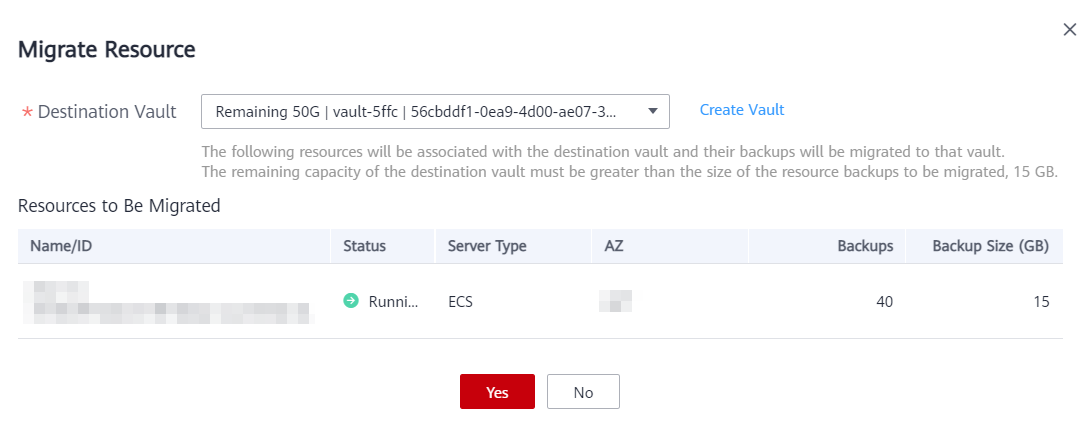
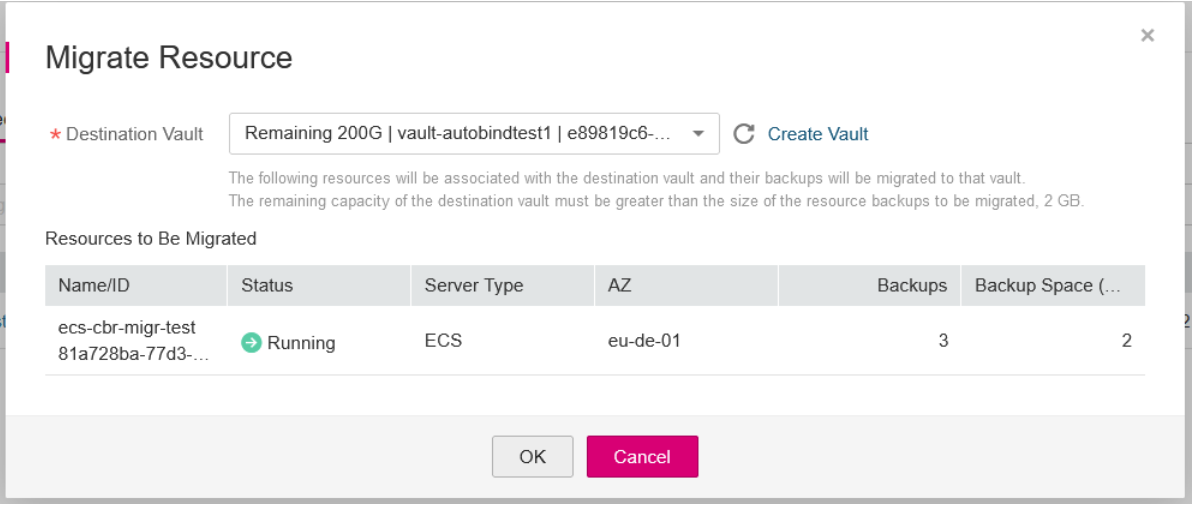
Update content

diff --git a/umn/source/vault_management/querying_a_vault.rst b/umn/source/vault_management/querying_a_vault.rst
@@ -67,27 +67,27 @@ Viewing Vault Details
 
       .. table:: **Table 2** Vault statuses
 
-         +-----------------------+-----------------------+---------------------------------------------------------------------------------------------------------------------------------------------------------------------------------------------------------------------------------------------------------------------------------------------------------------------------------------------+
-         | Status                | Attribute             | Description                                                                                                                                                                                                                                                                                                                                 |
-         +=======================+=======================+=============================================================================================================================================================================================================================================================================================================================================+
-         | All statuses          | --                    | All vaults are displayed if this value is selected.                                                                                                                                                                                                                                                                                         |
-         +-----------------------+-----------------------+---------------------------------------------------------------------------------------------------------------------------------------------------------------------------------------------------------------------------------------------------------------------------------------------------------------------------------------------+
-         | Available             | A stable state        | A stable state after a vault task is complete.                                                                                                                                                                                                                                                                                              |
-         |                       |                       |                                                                                                                                                                                                                                                                                                                                             |
-         |                       |                       | This state allows most of the operations.                                                                                                                                                                                                                                                                                                   |
-         +-----------------------+-----------------------+---------------------------------------------------------------------------------------------------------------------------------------------------------------------------------------------------------------------------------------------------------------------------------------------------------------------------------------------+
-         | Locked                | An intermediate state | An intermediate state displayed when a capacity expansion is in progress.                                                                                                                                                                                                                                                                   |
-         |                       |                       |                                                                                                                                                                                                                                                                                                                                             |
-         |                       |                       | If a vault is in this state, you can perform operations, such as applying a policy and associating servers or disks. However, the following operations are not allowed on such a vault: expanding the vault capacity and changing the vault specifications. Once those operations are complete, the vault status will become **Available**. |
-         +-----------------------+-----------------------+---------------------------------------------------------------------------------------------------------------------------------------------------------------------------------------------------------------------------------------------------------------------------------------------------------------------------------------------+
-         | Deleting              | An intermediate state | An intermediate state displayed when a vault is being deleted.                                                                                                                                                                                                                                                                              |
-         |                       |                       |                                                                                                                                                                                                                                                                                                                                             |
-         |                       |                       | In this state, a progress bar is displayed indicating the deletion progress. If the progress bar remains unchanged for an extended time, an exception has occurred. Contact technical support.                                                                                                                                              |
-         +-----------------------+-----------------------+---------------------------------------------------------------------------------------------------------------------------------------------------------------------------------------------------------------------------------------------------------------------------------------------------------------------------------------------+
-         | Error                 | A stable state        | A vault enters the **Error** state when an exception occurs during task execution.                                                                                                                                                                                                                                                          |
-         |                       |                       |                                                                                                                                                                                                                                                                                                                                             |
-         |                       |                       | You can click **Tasks** in the navigation pane on the left to view the error cause. If the error persists, contact technical support.                                                                                                                                                                                                       |
-         +-----------------------+-----------------------+---------------------------------------------------------------------------------------------------------------------------------------------------------------------------------------------------------------------------------------------------------------------------------------------------------------------------------------------+
+         +-----------------------+-----------------------+------------------------------------------------------------------------------------------------------------------------------------------------------------------------------------------------------------------------------------------------------------------------------------------------------------------------------------------------------------+
+         | Status                | Attribute             | Description                                                                                                                                                                                                                                                                                                                                                |
+         +=======================+=======================+============================================================================================================================================================================================================================================================================================================================================================+
+         | All statuses          | --                    | All vaults are displayed if this value is selected.                                                                                                                                                                                                                                                                                                        |
+         +-----------------------+-----------------------+------------------------------------------------------------------------------------------------------------------------------------------------------------------------------------------------------------------------------------------------------------------------------------------------------------------------------------------------------------+
+         | Available             | A stable state        | A stable state after a vault task is complete.                                                                                                                                                                                                                                                                                                             |
+         |                       |                       |                                                                                                                                                                                                                                                                                                                                                            |
+         |                       |                       | This state allows most of the operations.                                                                                                                                                                                                                                                                                                                  |
+         +-----------------------+-----------------------+------------------------------------------------------------------------------------------------------------------------------------------------------------------------------------------------------------------------------------------------------------------------------------------------------------------------------------------------------------+
+         | Locked                | An intermediate state | An intermediate state displayed when a capacity expansion is in progress.                                                                                                                                                                                                                                                                                  |
+         |                       |                       |                                                                                                                                                                                                                                                                                                                                                            |
+         |                       |                       | If a vault is in this state, you can perform operations, such as applying a policy and associating servers, file systems, or disks. However, the following operations are not allowed on such a vault: expanding the vault capacity and changing the vault specifications. Once those operations are complete, the vault status will become **Available**. |
+         +-----------------------+-----------------------+------------------------------------------------------------------------------------------------------------------------------------------------------------------------------------------------------------------------------------------------------------------------------------------------------------------------------------------------------------+
+         | Deleting              | An intermediate state | An intermediate state displayed when a vault is being deleted.                                                                                                                                                                                                                                                                                             |
+         |                       |                       |                                                                                                                                                                                                                                                                                                                                                            |
+         |                       |                       | In this state, a progress bar is displayed indicating the deletion progress. If the progress bar remains unchanged for an extended time, an exception has occurred. Contact technical support.                                                                                                                                                             |
+         +-----------------------+-----------------------+------------------------------------------------------------------------------------------------------------------------------------------------------------------------------------------------------------------------------------------------------------------------------------------------------------------------------------------------------------+
+         | Error                 | A stable state        | A vault enters the **Error** state when an exception occurs during task execution.                                                                                                                                                                                                                                                                         |
+         |                       |                       |                                                                                                                                                                                                                                                                                                                                                            |
+         |                       |                       | You can click **Tasks** in the navigation pane on the left to view the error cause. If the error persists, contact technical support.                                                                                                                                                                                                                      |
+         +-----------------------+-----------------------+------------------------------------------------------------------------------------------------------------------------------------------------------------------------------------------------------------------------------------------------------------------------------------------------------------------------------------------------------------+
 
    -  Search a vault by its name or ID.
 

diff --git a/umn/source/policy_management/creating_a_backup_policy.rst b/umn/source/policy_management/creating_a_backup_policy.rst
@@ -54,7 +54,7 @@ Procedure
       +-----------------------+-----------------------------------------------------------------------------------------------------------------------------------------------------------------------------------------------------------------------------------------------------------------------------------------------------------------------------------------------------------------------------------------------------------------------------------------------------------------------------------------------------------------------------------------------------------------------------------------------------------------------------------------------------------------------------------------+-----------------------------------------------------------------------------------------------------------------------------------------------------------------------------------------------------------------------------------------------------------------+
       | Execution Time        | Execution time                                                                                                                                                                                                                                                                                                                                                                                                                                                                                                                                                                                                                                                                          | 00:00, 02:00                                                                                                                                                                                                                                                    |
       |                       |                                                                                                                                                                                                                                                                                                                                                                                                                                                                                                                                                                                                                                                                                         |                                                                                                                                                                                                                                                                 |
-      |                       | Backups can be scheduled at the beginning of each hour, and you can select multiple hours.                                                                                                                                                                                                                                                                                                                                                                                                                                                                                                                                                                                              | -  It is recommended that backups be performed during service off-peak hours or when no services are running.                                                                                                                                                   |
+      |                       | Backups can be scheduled at the beginning of each hour, and you can select multiple hours.                                                                                                                                                                                                                                                                                                                                                                                                                                                                                                                                                                                              | -  It is recommended that backups be performed during off-peak hours or when no services are running.                                                                                                                                                           |
       |                       |                                                                                                                                                                                                                                                                                                                                                                                                                                                                                                                                                                                                                                                                                         | -  Peak hours of the backup service are from 00:00 to 06:00, during which backup schedules may be delayed. So you are advised to evaluate your service types and schedule backups outside of the backup peak hours.                                             |
       |                       | .. important::                                                                                                                                                                                                                                                                                                                                                                                                                                                                                                                                                                                                                                                                          |                                                                                                                                                                                                                                                                 |
       |                       |                                                                                                                                                                                                                                                                                                                                                                                                                                                                                                                                                                                                                                                                                         |                                                                                                                                                                                                                                                                 |

diff --git a/umn/source/faqs/concepts/why_is_my_backup_size_larger_than_my_disk_size.rst b/umn/source/faqs/concepts/why_is_my_backup_size_larger_than_my_disk_size.rst
@@ -16,7 +16,7 @@ Possible Causes
 
 Possible causes are as follows:
 
--  The backup mechanism itself causes this problem. The cloud server backups, cloud disk backups, and SFS Turbo backups created using CBR are all block-level backups. Different from file-level backups, block-level backups are performed by sector (512 bytes) each time.
+-  The backup mechanism itself causes this problem. The cloud server backups, SFS Turbo backups, and cloud disk backups created using CBR are all block-level backups. Different from file-level backups, block-level backups are performed by sector (512 bytes) each time.
 -  The metadata of the file systems on the disk occupies disk space.
 -  To reduce performance overhead, the file system adds a delete marker for the deleted file, but does not erase the data that has been written to the sector, and the metadata on the sector still exists. Block-level backups cannot detect whether data on a sector is deleted or not, but only determine whether a backup needs to be performed by checking whether all data blocks are zero blocks.
 -  CBR determines whether data in each sector changes by comparing two snapshots. Data changes include data addition, modification, and deletion. Backup is not performed if there are no data changes. If there are data changes, CBR further checks whether data blocks in the sector are all zero blocks. If so, backup is also not performed. Backups are performed only when there are non-zero blocks. If the data is deleted but metadata in the sector is not, the data block is also recognized as a non-zero block, and backups will be performed.

diff --git a/umn/source/backup_management/using_a_backup_to_create_an_image.rst b/umn/source/backup_management/using_a_backup_to_create_an_image.rst
@@ -22,6 +22,7 @@ Prerequisites
       Once a backup creation starts, the backup enters the **Creating** state. After a period of time, a message stating "Image can be created" is displayed under **Creating**. In this case, the backup can be used for creating an image, even though it is still being created and cannot be used for restoration.
 
 -  The backup contains the system disk data.
+-  Only ECS backups can be used to create images.
 
 Notes
 -----

diff --git a/umn/source/vault_management/migrating_a_resource.rst b/umn/source/vault_management/migrating_a_resource.rst
@@ -35,7 +35,7 @@ Procedure
 
       **Figure 1** Migrating a resource
 
-#. Select the destination vault and click **Yes**.
+#. Select the destination vault and click **OK**.
 
 #. View the migration progress on the **Tasks** page. If **Status** changes to **Successful**, the resource has been migrated.
 
